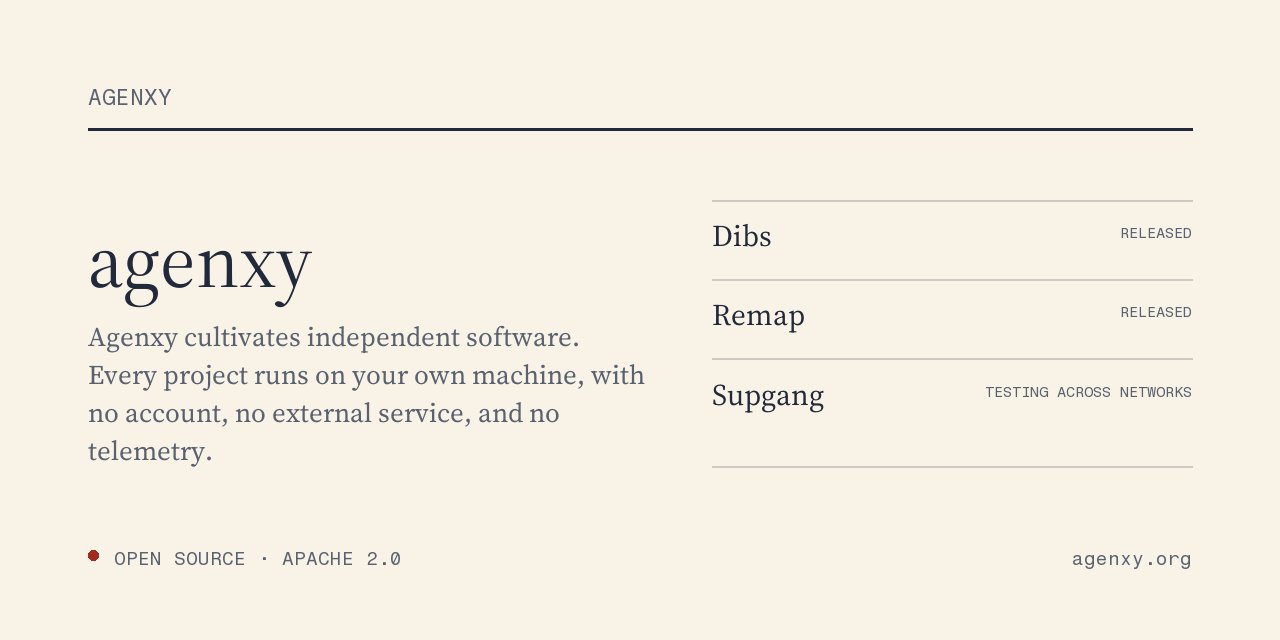
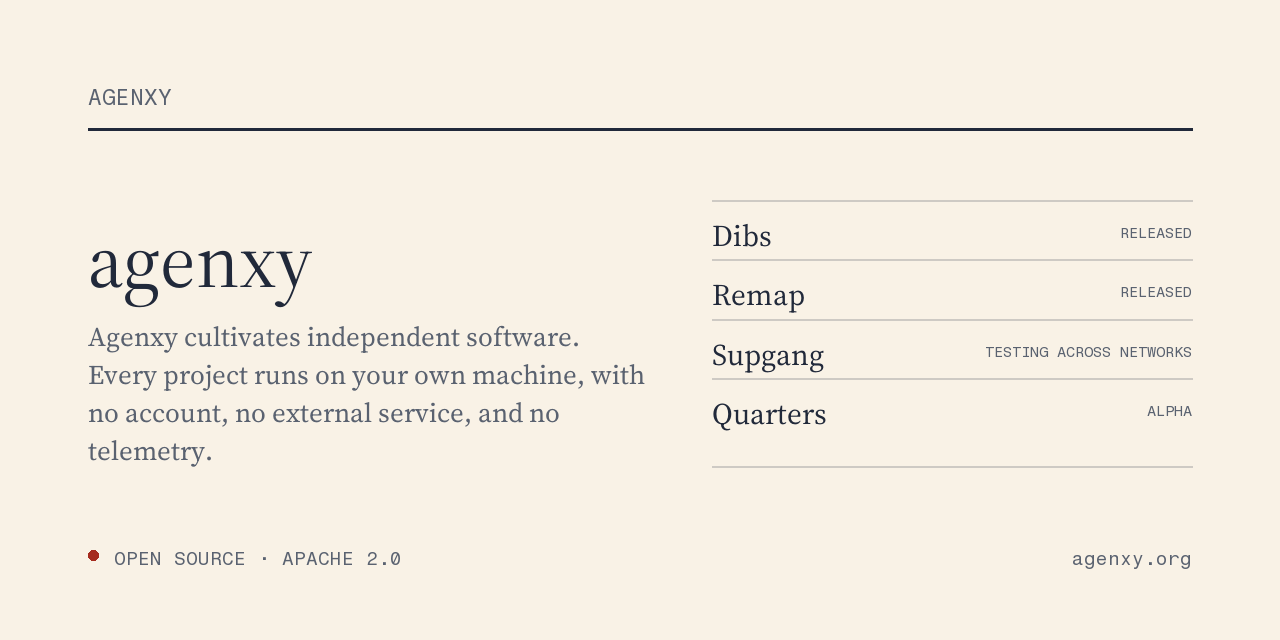
Quarters, and Supgang's line catches up with the register (#5)

diff --git a/profile/README.md b/profile/README.md
@@ -40,16 +40,31 @@ Released — v0.1.0 · [Milestones](https://github.com/Agenxy/remap/blob/main/do
 
 ### [Supgang](https://github.com/Agenxy/supgang) &nbsp;·&nbsp; Rust
 
-Finds the current address of a computer whose address keeps changing. Each
-computer gets a stable cryptographic identity, and authorised members exchange
-freshly signed network addresses when those addresses move.
+Keeps track of your computers' changing public IP addresses without a
+third-party service. Each computer gets a stable cryptographic identity, and
+authorised members exchange freshly signed network addresses when those
+addresses move.
 
 No account, no public discovery service, no vendor relay, no required server.
 Direct peer connections work today on macOS and Linux; automatic LAN
 rendezvous, NAT traversal and user-owned relay mode are later milestones, so a
 peer currently needs a reachable address.
 
-Prerelease — v0.1.0 · [Threat model](https://github.com/Agenxy/supgang/blob/main/docs/security/threat-model.md)
+Testing across networks · [Threat model](https://github.com/Agenxy/supgang/blob/main/docs/security/threat-model.md)
+
+### [Quarters](https://github.com/Agenxy/quarters) &nbsp;·&nbsp; Rust
+
+Gives a shell its own configuration, history and credentials, on the same
+account. A space is a private folder; a process launched into it reads and
+writes its configuration there while running as the same user, with the same
+UID, groups and access to the filesystem.
+
+It is not a VM, a container, an alternate Unix user, or a security boundary.
+Filesystem confinement is not implemented, `sudo` escapes the space, and an
+absolute path into your real home still reaches it. `doctor` reports Seatbelt
+and Landlock as gaps rather than claiming protection that is not there.
+
+Alpha — v0.1.0-alpha.2 · [Privacy](https://github.com/Agenxy/quarters/blob/main/PRIVACY.md)
 
 ---
 
